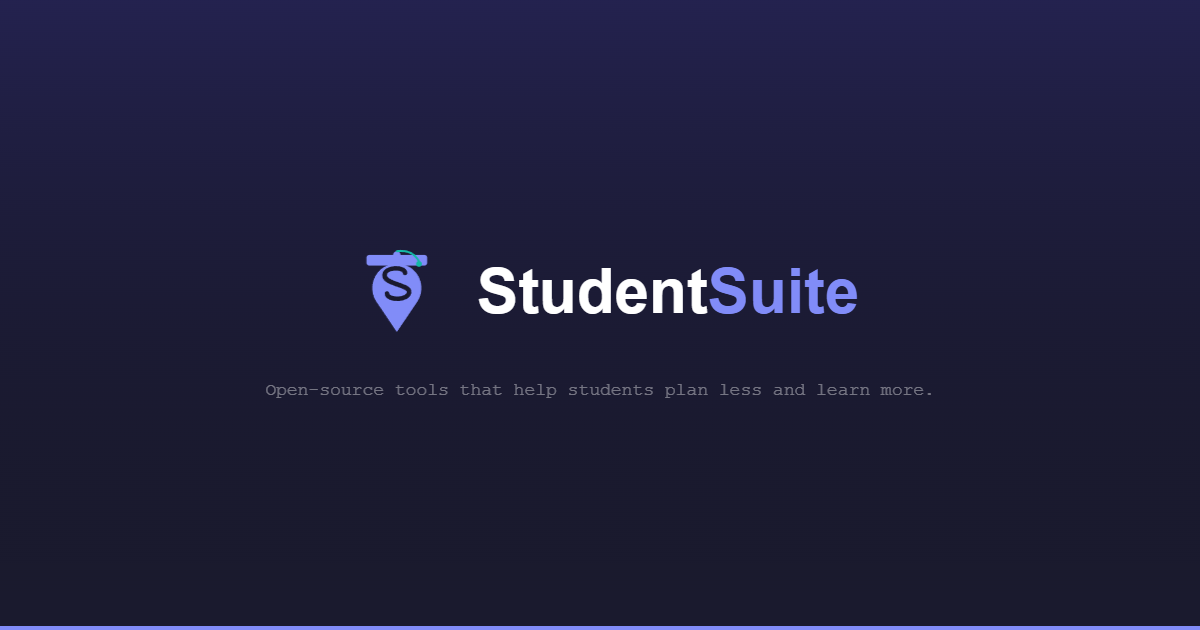
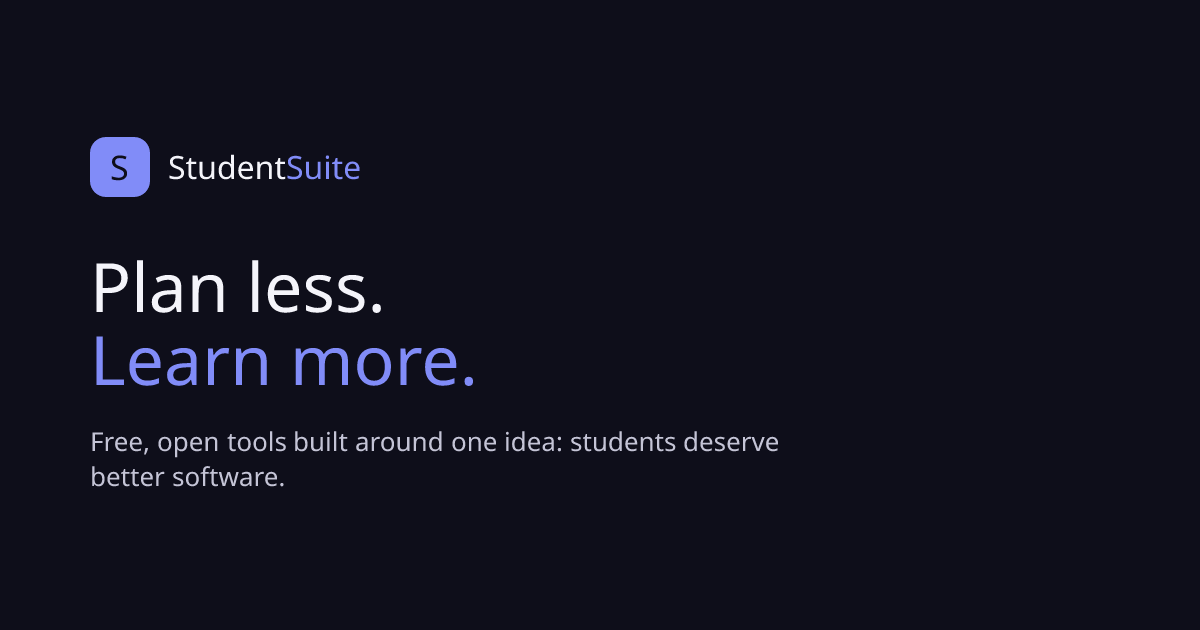
fix: regenerate og-image.png/-dark from the new hero, bump next for CVEs
og-image.png and og-image-dark.png (GitHub Social Preview uploads) still
showed the removed WebGL hero. Both are now rendered from the same
opengraph-image.tsx source as the site's own meta image instead of a
separate design-tool export, so they can't drift again - regeneration
steps documented in public/README.md.

next 16.1.4 -> 16.2.12 clears the brace-expansion and next-level advisory
findings from npm audit. The remaining 2 high-severity findings (postcss,
sharp) are vendored inside next's own dependency tree; npm audit fix
--force wants to downgrade to next@9.3.3 (pre-App Router), which would
break the entire site, so left for an upstream Next.js patch.

diff --git a/public/README.md b/public/README.md
@@ -49,11 +49,14 @@ https://realfavicongenerator.net (or via ImageMagick from the PNGs) and drop it 
   `.github` repo (`profile/`) so the org profile README renders.
 - `avatar-512.png` is uploaded in **Org Settings > Profile** (not referenced by code).
 - `og-image.png` is set as each repo's **Social Preview** (Settings > General). The site's
-  own `<meta og:image>`/Twitter card no longer reads this file - `src/app/opengraph-image.tsx`
-  generates that one at build time so it can't drift from the current hero. `og-image.png`
-  here is still the GitHub Social Preview upload (that surface needs an actual file, not a
-  route), and it still shows the pre-2026-07 hero - due for a re-export from the design tool
-  next time brand assets get refreshed.
+  own `<meta og:image>`/Twitter card doesn't read this file - `src/app/opengraph-image.tsx`
+  generates that one at build time so it can't drift from the current hero. `og-image.png` /
+  `og-image-dark.png` here are still needed for the GitHub Social Preview upload (that surface
+  needs an actual file, not a route) - both are now **derived from `opengraph-image.tsx`**,
+  not a separate design-tool export: build the site, copy `out/opengraph-image` to
+  `og-image.png`, then temporarily swap the file's colors to the dark-mode tokens, rebuild,
+  and copy that output to `og-image-dark.png`. Re-run this whenever the hero design changes
+  so these two masters and the live route stay in sync.
 
 ## Site `<head>` wiring (for the future Next.js build)
 
